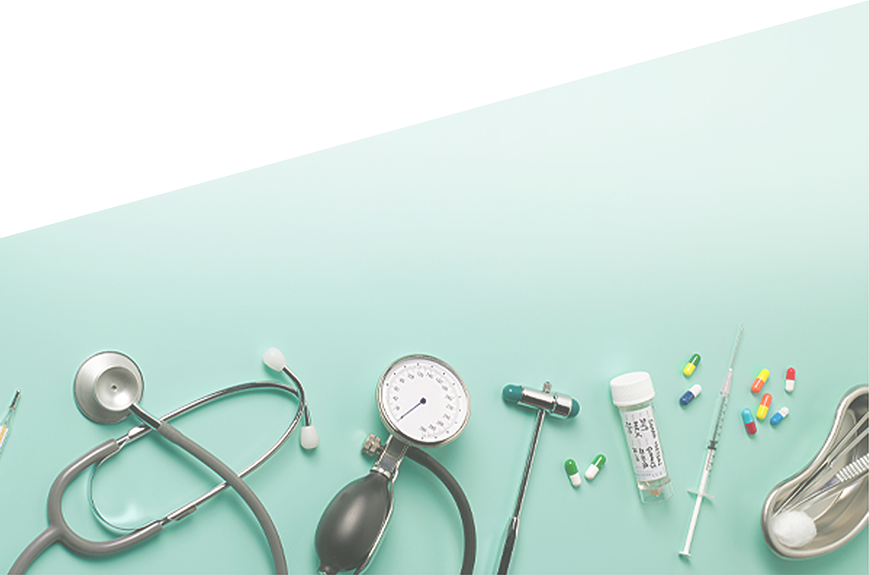
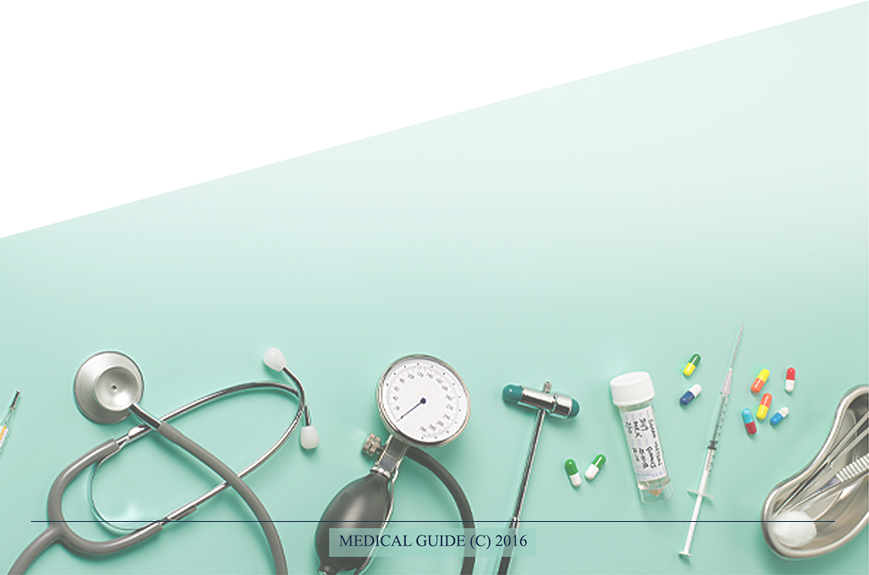
Changed styles.css

Changed region(s): [[0.3728, 0.9165, 0.6214, 0.9757]]

diff --git a/web/bundles/framework/css/styles.css b/web/bundles/framework/css/styles.css
@@ -5,38 +5,19 @@ body {
 
 #footerbk
 {
-    left: 0px;
-    top: 1531px;
+    top: 238.7%;
+    left: 19.3%;
     position: absolute;
     width: 869px;
     height: 575px;
     z-index:2;
 }
 
-#Shape8
-{
-    left: 29px;
-    top: 2050px;
-    position: absolute;
-    width: 807px;
-    height: 4px;
-    z-index:3;
-}
-
-#copyright
-{
-    left: 329px;
-    top: 2059px;
-    position: absolute;
-    width: 207px;
-    height: 29px;
-    z-index:4;
-}
 
 #up
 {
-    left: 389px;
-    top: 1752px;
+    top: 275.7%;
+    left: 47%;
     position: absolute;
     width: 106px;
     height: 24px;
@@ -45,8 +26,8 @@ body {
 
 #teambk
 {
-    left: 0px;
-    top: 1045px;
+    top: 163.7%;
+    left: 19.3%;
     position: absolute;
     width: 869px;
     height: 724px;
@@ -55,8 +36,8 @@ body {
 
 #e1
 {
-    left: 330px;
-    top: 1258px;
+    top: 199.7%;
+    left: 45%;
     position: absolute;
     width: 206px;
     height: 224px;
@@ -65,8 +46,8 @@ body {
 
 #m2
 {
-    left: 74px;
-    top: 1260px;
+    top: 199.7%;
+    left: 25%;
     position: absolute;
     width: 208px;
     height: 223px;
@@ -75,8 +56,8 @@ body {
 
 #l3
 {
-    left: 583px;
-    top: 1258px;
+    top: 199.7%;
+    left: 65%;
     position: absolute;
     width: 210px;
     height: 223px;
@@ -85,8 +66,8 @@ body {
 
 #etwi
 {
-    left: 424px;
-    top: 1527px;
+    left: 52%;
+    top: 240%;
     position: absolute;
     width: 20px;
     height: 15px;
@@ -95,8 +76,8 @@ body {
 
 #efb
 {
-    left: 396px;
-    top: 1527px;
+    left: 50%;
+    top: 240%;
     position: absolute;
     width: 18px;
     height: 18px;
@@ -105,8 +86,8 @@ body {
 
 #evk
 {
-    left: 453px;
-    top: 1527px;
+    left: 54%;
+    top: 240%;
     position: absolute;
     width: 18px;
     height: 18px;
@@ -115,8 +96,8 @@ body {
 
 #mtwi
 {
-    left: 166px;
-    top: 1526px;
+    left: 32%;
+    top: 240%;
     position: absolute;
     width: 20px;
     height: 16px;
@@ -125,8 +106,8 @@ body {
 
 #mfb
 {
-    left: 138px;
-    top: 1526px;
+    left: 30%;
+    top: 240%;
     position: absolute;
     width: 18px;
     height: 18px;
@@ -135,8 +116,8 @@ body {
 
 #mvk
 {
-    left: 195px;
-    top: 1526px;
+    left: 34%;
+    top: 240%;
     position: absolute;
     width: 18px;
     height: 18px;
@@ -145,8 +126,8 @@ body {
 
 #ltwi
 {
-    left: 677px;
-    top: 1526px;
+    left: 72%;
+    top: 240%;
     position: absolute;
     width: 21px;
     height: 16px;
@@ -155,8 +136,8 @@ body {
 
 #lfb
 {
-    left: 649px;
-    top: 1526px;
+    left: 70%;
+    top: 240%;
     position: absolute;
     width: 18px;
     height: 18px;
@@ -165,8 +146,8 @@ body {
 
 #lvk
 {
-    left: 706px;
-    top: 1526px;
+    left: 74%;
+    top: 240%;
     position: absolute;
     width: 18px;
     height: 18px;
@@ -175,8 +156,8 @@ body {
 
 #elya
 {
-    left: 403px;
-    top: 1495px;
+    top: 235.7%;
+    left: 50%;
     position: absolute;
     width: 64px;
     height: 23px;
@@ -185,8 +166,8 @@ body {
 
 #mary
 {
-    left: 138px;
-    top: 1495px;
+    left: 30%;
+    top: 235.7%;
     position: absolute;
     width: 81px;
     height: 26px;
@@ -195,8 +176,8 @@ body {
 
 #lesya
 {
-    left: 649px;
-    top: 1495px;
+    left: 70%;
+    top: 235.7%;
     position: absolute;
     width: 78px;
     height: 23px;
@@ -205,8 +186,8 @@ body {
 
 #theteam
 {
-    left: 346px;
-    top: 1200px;
+    top: 188.7%;
+    left: 46%;
     position: absolute;
     width: 170px;
     height: 30px;
@@ -215,7 +196,7 @@ body {
 
 #mainmenu
 {
-    left: -3px;
+    left: 19%;
     position: absolute;
     width: 872px;
     height: 694px;
@@ -224,7 +205,7 @@ body {
 
 #login
 {
-    left: 164px;
+    left: 20%;
     top: 41px;
     position: absolute;
     width: 86px;
@@ -234,7 +215,7 @@ body {
 
 #connect
 {
-    left: 563px;
+    left: 65%;
     top: 47px;
     position: absolute;
     width: 179px;
@@ -244,18 +225,17 @@ body {
 
 #aboutbk
 {
-    left: 0px;
-    top: 505px;
+
+    top: 78.5%;
+    left: 19.3%;
     position: absolute;
-    width: 869px;
-    height: 780px;
     z-index:26;
 }
 
 #about
 {
-    left: 326px;
-    top: 647px;
+    top: 18%;
+    left: 37%;
     position: absolute;
     width: 206px;
     height: 25px;
@@ -264,8 +244,8 @@ body {
 
 #YourmadheartgoesCrus
 {
-    left: 457px;
-    top: 713px;
+    top: 25%;
+    left: 52%;
     position: absolute;
     width: 331px;
     height: 273px;
@@ -274,8 +254,8 @@ body {
 
 #Whenyouareseventeeny
 {
-    left: 111px;
-    top: 713px;
+    left: 15%;
+    top: 25%;
     position: absolute;
     width: 312px;
     height: 273px;
@@ -286,7 +266,7 @@ body {
 
 #connect
 {
-    left: 848px;
+    left: 548px;
     top: 72px;
     position: absolute;
     width: 266px;
